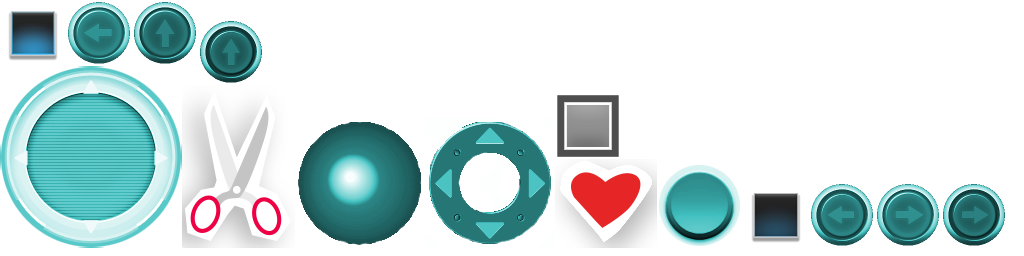
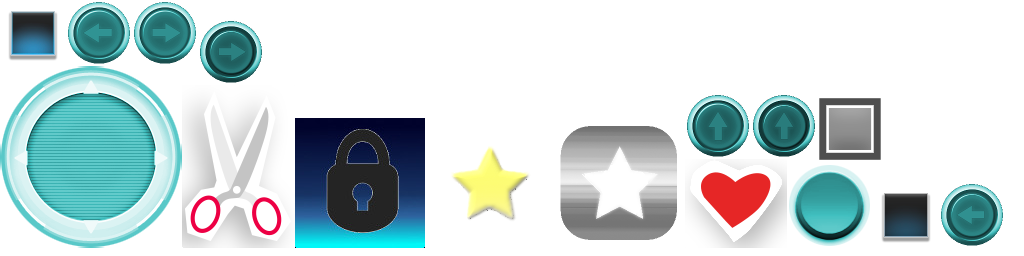
--

Changed region(s): [[0.2812, 0.3438, 1.0, 0.9688], [0.1875, 0.1562, 0.25, 0.25], [0.1562, 0.125, 0.1875, 0.1562]]

diff --git a/core/src/main/java/com/rubentxu/juegos/core/pantallas/SelectLevelScreen.java b/core/src/main/java/com/rubentxu/juegos/core/pantallas/SelectLevelScreen.java
@@ -10,11 +10,8 @@ import com.badlogic.gdx.graphics.g2d.TextureAtlas;
 import com.badlogic.gdx.scenes.scene2d.InputEvent;
 import com.badlogic.gdx.scenes.scene2d.Stage;
 import com.badlogic.gdx.scenes.scene2d.ui.Label;
-import com.badlogic.gdx.scenes.scene2d.ui.TextButton;
 import com.badlogic.gdx.scenes.scene2d.utils.ActorGestureListener;
 import com.badlogic.gdx.scenes.scene2d.utils.Align;
-import com.badlogic.gdx.scenes.scene2d.utils.ClickListener;
-import com.badlogic.gdx.scenes.scene2d.utils.Drawable;
 import com.badlogic.gdx.scenes.scene2d.utils.NinePatchDrawable;
 import com.badlogic.gdx.scenes.scene2d.utils.SpriteDrawable;
 import com.rubentxu.juegos.core.DreamsGame;
@@ -24,7 +21,6 @@ import com.rubentxu.juegos.core.servicios.Assets;
 import com.rubentxu.juegos.core.utils.gui.mtx.ButtonLevel;
 
 import java.util.List;
-import java.util.Random;
 
 public class SelectLevelScreen extends BaseScreen {
 
@@ -48,13 +44,13 @@ public class SelectLevelScreen extends BaseScreen {
 
             final ButtonLevel levelButton =new ButtonLevel(styles.skin.get("btnMenu",NinePatchDrawable.class),styles.skin.get("btnMenuPress",NinePatchDrawable.class));
             if(!levels.get(i).isActive()) {
-                levelButton.setTextureLocked(((TextureAtlas) Assets.getInstance().get(Assets.getInstance().GUI_ATLAS)).findRegion("tijeras"),true);
+                levelButton.setTextureLocked(((TextureAtlas) Assets.getInstance().get(Assets.getInstance().GUI_ATLAS)).findRegion("botonCandado"),true);
             }
 
             levelButton.setLevelNumber(i + 1, styles.font2);
 
-            levelButton.setLevelStars(((TextureAtlas) Assets.getInstance().get(Assets.getInstance().GUI_ATLAS)).findRegion("vidas")
-                    , ((TextureAtlas) Assets.getInstance().get(Assets.getInstance().GUI_ATLAS)).findRegion("tijeras"), 4, levels.get(i).getAchievements());
+            levelButton.setLevelStars(((TextureAtlas) Assets.getInstance().get(Assets.getInstance().GUI_ATLAS)).findRegion("estrellaZocalo")
+                    , ((TextureAtlas) Assets.getInstance().get(Assets.getInstance().GUI_ATLAS)).findRegion("estrella"), 4, levels.get(i).getAchievements());
 
             levelButton.addListener(new ActorGestureListener() {
                 @Override
@@ -70,7 +66,7 @@ public class SelectLevelScreen extends BaseScreen {
                 mainTable.row();
             }
 
-            mainTable.add(levelButton).size(100, 100).pad(5, 5, 5, 5).expand();
+            mainTable.add(levelButton).size(150, 150).pad(5, 5, 5, 5).expand();
         }
 
         mainTable.setFillParent(true);

diff --git a/core/src/main/java/com/rubentxu/juegos/core/managers/game/LevelManager.java b/core/src/main/java/com/rubentxu/juegos/core/managers/game/LevelManager.java
@@ -30,34 +30,7 @@ public class LevelManager {
         Assets.getInstance().load(LEVEL1_BACKGROUND, Texture.class);
         Assets.getInstance().load(MUSIC, Music.class);
         Assets.getInstance().finishLoading();
-
-        levels.add(new Level("maps/EscenarioDePruebas.tmx", "Madrid no es Olimpica",
-                "El malvado Borcena esta intentando destruir la imagen de Madrid...", MUSIC, LEVEL1_BACKGROUND,
-                CLOUD_BACKGROUND, TREE_BACKGROUND, true, 1));
-        levels.add(new Level("maps/EscenarioDePruebas.tmx", "Madrid no es Olimpica",
-                "El malvado Borcena esta intentando destruir la imagen de Madrid...", MUSIC, LEVEL1_BACKGROUND,
-                CLOUD_BACKGROUND, TREE_BACKGROUND, true, 2));
-        levels.add(new Level("maps/EscenarioDePruebas.tmx", "Madrid no es Olimpica",
-                "El malvado Borcena esta intentando destruir la imagen de Madrid...", MUSIC, LEVEL1_BACKGROUND,
-                CLOUD_BACKGROUND, TREE_BACKGROUND, true, 3));
-        levels.add(new Level("maps/EscenarioDePruebas.tmx", "Madrid no es Olimpica",
-                "El malvado Borcena esta intentando destruir la imagen de Madrid...", MUSIC, LEVEL1_BACKGROUND,
-                CLOUD_BACKGROUND, TREE_BACKGROUND, true, 2));
-        levels.add(new Level("maps/EscenarioDePruebas.tmx", "Madrid no es Olimpica",
-                "El malvado Borcena esta intentando destruir la imagen de Madrid...", MUSIC, LEVEL1_BACKGROUND,
-                CLOUD_BACKGROUND, TREE_BACKGROUND, true, 0));
-        levels.add(new Level("maps/EscenarioDePruebas.tmx", "Madrid no es Olimpica",
-                "El malvado Borcena esta intentando destruir la imagen de Madrid...", MUSIC, LEVEL1_BACKGROUND,
-                CLOUD_BACKGROUND, TREE_BACKGROUND, false, 0));
-        levels.add(new Level("maps/EscenarioDePruebas.tmx", "Madrid no es Olimpica",
-                "El malvado Borcena esta intentando destruir la imagen de Madrid...", MUSIC, LEVEL1_BACKGROUND,
-                CLOUD_BACKGROUND, TREE_BACKGROUND, false, 0));
-        levels.add(new Level("maps/EscenarioDePruebas.tmx", "Madrid no es Olimpica",
-                "El malvado Borcena esta intentando destruir la imagen de Madrid...", MUSIC, LEVEL1_BACKGROUND,
-                CLOUD_BACKGROUND, TREE_BACKGROUND, false, 0));
-
-        currentLevel = levels.get(0);
-        game.getProfileManager().persist();
+        loadLevels();
     }
 
 

diff --git a/core/src/main/java/com/rubentxu/juegos/core/modelo/Level.java b/core/src/main/java/com/rubentxu/juegos/core/modelo/Level.java
@@ -1,14 +1,10 @@
 package com.rubentxu.juegos.core.modelo;
 
 
-import com.badlogic.gdx.audio.Music;
-import com.badlogic.gdx.graphics.Texture;
-import com.badlogic.gdx.maps.tiled.TiledMap;
-import com.rubentxu.juegos.core.servicios.Assets;
+import com.badlogic.gdx.utils.Json;
+import com.badlogic.gdx.utils.JsonValue;
 
-import java.util.Map;
-
-public class Level {
+public class Level implements Json.Serializable {
 
     private String map;
     private String levelName;
@@ -20,6 +16,8 @@ public class Level {
     private boolean active=false;
     private int achievements=0;
     private int highScore=0;
+
+    public Level(){}
 
     public Level(String map, String levelName, String description, String music, String background_01, String background_02, String background_03,
                  boolean active,int achievements) {
@@ -84,5 +82,35 @@ public class Level {
 
     public void setHighScore(int highScore) {
         this.highScore = highScore;
+    }
+
+    @Override
+    public void read(Json json, JsonValue jsonData) {
+
+        map=json.readValue("map", String.class, jsonData);;
+        levelName=json.readValue("levelName", String.class, jsonData);;
+        description=json.readValue("description", String.class, jsonData);;
+        music=json.readValue("music", String.class, jsonData);;
+        background_01=json.readValue("background_01", String.class, jsonData);;
+        background_02=json.readValue("background_02", String.class, jsonData);;
+        background_03=json.readValue("background_03", String.class, jsonData);;
+        active=json.readValue("active", Boolean.class, jsonData);;
+        achievements=json.readValue("achievements", Integer.class, jsonData);;
+        highScore=json.readValue("highScore", Integer.class, jsonData);;
+
+    }
+
+    @Override
+    public void write(Json json) {
+        json.writeValue("map", map);
+        json.writeValue("levelName", levelName);
+        json.writeValue("description", description);
+        json.writeValue("music", music);
+        json.writeValue("background_01", background_01);
+        json.writeValue("background_02", background_02);
+        json.writeValue("background_03", background_03);
+        json.writeValue("active", active);
+        json.writeValue("achievements", achievements);
+        json.writeValue("highScore", highScore);
     }
 }

diff --git a/core/src/main/java/com/rubentxu/juegos/core/managers/game/ProfileManager.java b/core/src/main/java/com/rubentxu/juegos/core/managers/game/ProfileManager.java
@@ -11,19 +11,13 @@ import com.rubentxu.juegos.core.modelo.Profile;
 public class ProfileManager {
 
 
-    private final DreamsGame game;
     private Profile profile;
 
-    public ProfileManager(DreamsGame dreamsGame){
-        this.game=dreamsGame;
-    }
-
     public Profile retrieveProfile() {
-
+        profile=null;
         FileHandle profileDataFile = Gdx.files.local(Constants.PROFILE_DATA_FILE);
         Gdx.app.log(Constants.LOG, "Retrieving profile from: " + profileDataFile.path());
 
-        if (profile != null) return profile;
         Json json = new Json();
 
         if (profileDataFile.exists()) {
@@ -38,12 +32,15 @@ public class ProfileManager {
                 profile = json.fromJson(Profile.class, profileAsText);
 
             } catch (Exception e) {
-                Gdx.app.error(Constants.LOG, "Unable to parse existing profile data file", e);
-                profile = new Profile(game.getLevelManager().getLevels());
+                FileHandle initProfileDataFile = Gdx.files.local(Constants.INIT_PROFILE_DATA_FILE);
+                Gdx.app.log(Constants.LOG, "Retrieving profile from: " + initProfileDataFile.path());
+                profile = json.fromJson(Profile.class, initProfileDataFile.readString().trim());
                 persist(profile);
             }
         } else {
-            profile = new Profile(game.getLevelManager().getLevels());
+            FileHandle initProfileDataFile = Gdx.files.local(Constants.INIT_PROFILE_DATA_FILE);
+            Gdx.app.log(Constants.LOG, "Retrieving profile from: " + initProfileDataFile.path());
+            profile = json.fromJson(Profile.class, initProfileDataFile.readString().trim());
             persist(profile);
         }
 
@@ -67,5 +64,10 @@ public class ProfileManager {
         if (profile != null) {
             persist(profile);
         }
+    }
+
+    public void resetToDefaultProfile(){
+        FileHandle profileDataFile = Gdx.files.local(Constants.PROFILE_DATA_FILE);
+        if (profileDataFile.exists()) profileDataFile.delete();
     }
 }

diff --git a/core/src/main/java/com/rubentxu/juegos/core/BaseGame.java b/core/src/main/java/com/rubentxu/juegos/core/BaseGame.java
@@ -2,7 +2,6 @@ package com.rubentxu.juegos.core;
 
 import com.badlogic.gdx.ApplicationListener;
 import com.badlogic.gdx.Gdx;
-import com.badlogic.gdx.audio.Music;
 import com.badlogic.gdx.graphics.Pixmap.Format;
 import com.badlogic.gdx.graphics.g2d.SpriteBatch;
 import com.badlogic.gdx.graphics.glutils.FrameBuffer;
@@ -56,9 +55,9 @@ public class BaseGame implements ApplicationListener {
         }
 
         nextScreen = screen;
-        nextScreen.show(); // activate next screen
+        nextScreen.show();
         nextScreen.resize(w, h);
-        nextScreen.render(0); // let screen update() once
+        nextScreen.render(0);
         nextScreen.pause();
         Gdx.input.setInputProcessor(null); // disable input
         this.screenTransition = screenTransition;
@@ -116,7 +115,8 @@ public class BaseGame implements ApplicationListener {
                     //Presentar una ventana para salir
                     //DreamsGame.gameState=GameState.GAME_PAUSED;
                     if(menuScreen!=null){
-                        setScreen(menuScreen,menuScreen.getTransition());
+                        profileManager.retrieveProfile();
+                        setScreen(menuScreen, menuScreen.getTransition()); 
                     }else {
                         Gdx.app.exit();
                     }

diff --git a/core/src/main/java/com/rubentxu/juegos/core/constantes/Constants.java b/core/src/main/java/com/rubentxu/juegos/core/constantes/Constants.java
@@ -20,7 +20,8 @@ public class Constants {
     public static final String PREF_SOUND_ENABLED = "sound.enabled";
     public static final String PREF_TOUCHPAD_ENABLED = "touchpad.enabled";
     // Profile
-    public static final String PROFILE_DATA_FILE = "data/profile.json";
+    public static final String PROFILE_DATA_FILE = "data/profile.game";
+    public static final String INIT_PROFILE_DATA_FILE = "data/initProfile.game";
 
     //Name elements GUI STATS
     public static final String LABEL_SCORE= "Puntuacion";

diff --git a/core/src/main/java/com/rubentxu/juegos/core/DreamsGame.java b/core/src/main/java/com/rubentxu/juegos/core/DreamsGame.java
@@ -19,7 +19,7 @@ public class DreamsGame extends BaseGame {
     public void create() {
         Gdx.input.setCatchBackKey(true);
         preferencesManager = PreferencesManager.instance;
-        profileManager= new ProfileManager(this);
+        profileManager= new ProfileManager();
         levelManager=new LevelManager(this);
         musicManager=new MusicManager(this);
         log = new FPSLogger();

diff --git a/desktop/src/main/java/com/rubentxu/juegos/java/DreamsGameDesktop.java b/desktop/src/main/java/com/rubentxu/juegos/java/DreamsGameDesktop.java
@@ -12,8 +12,8 @@ public class DreamsGameDesktop {
         config.title = "Dreams Game " + Constants.VERSION;
         DreamsGame.DEBUG= true;
         config.useGL20 = true;
-        config.width = 600;
-        config.height = 480;
+        config.width = 1024;
+        config.height = 800;
 		new LwjglApplication(new DreamsGame(), config);
 	}
 }

diff --git a/core/src/main/java/com/rubentxu/juegos/core/utils/gui/mtx/ButtonLevel.java b/core/src/main/java/com/rubentxu/juegos/core/utils/gui/mtx/ButtonLevel.java
@@ -25,7 +25,7 @@ public class ButtonLevel extends AbstractButton {
 	private BitmapFont bitMapFont;
 
 	public ButtonLevel(Drawable up, Drawable down) {
-		super(Assets.getInstance().<BitmapFont>get(Assets.DEFAULT_FONT), up, down);
+		super(Assets.getInstance().<BitmapFont>get(Assets.HEADER_FONT), up, down);
 	}
 
 	@Override
